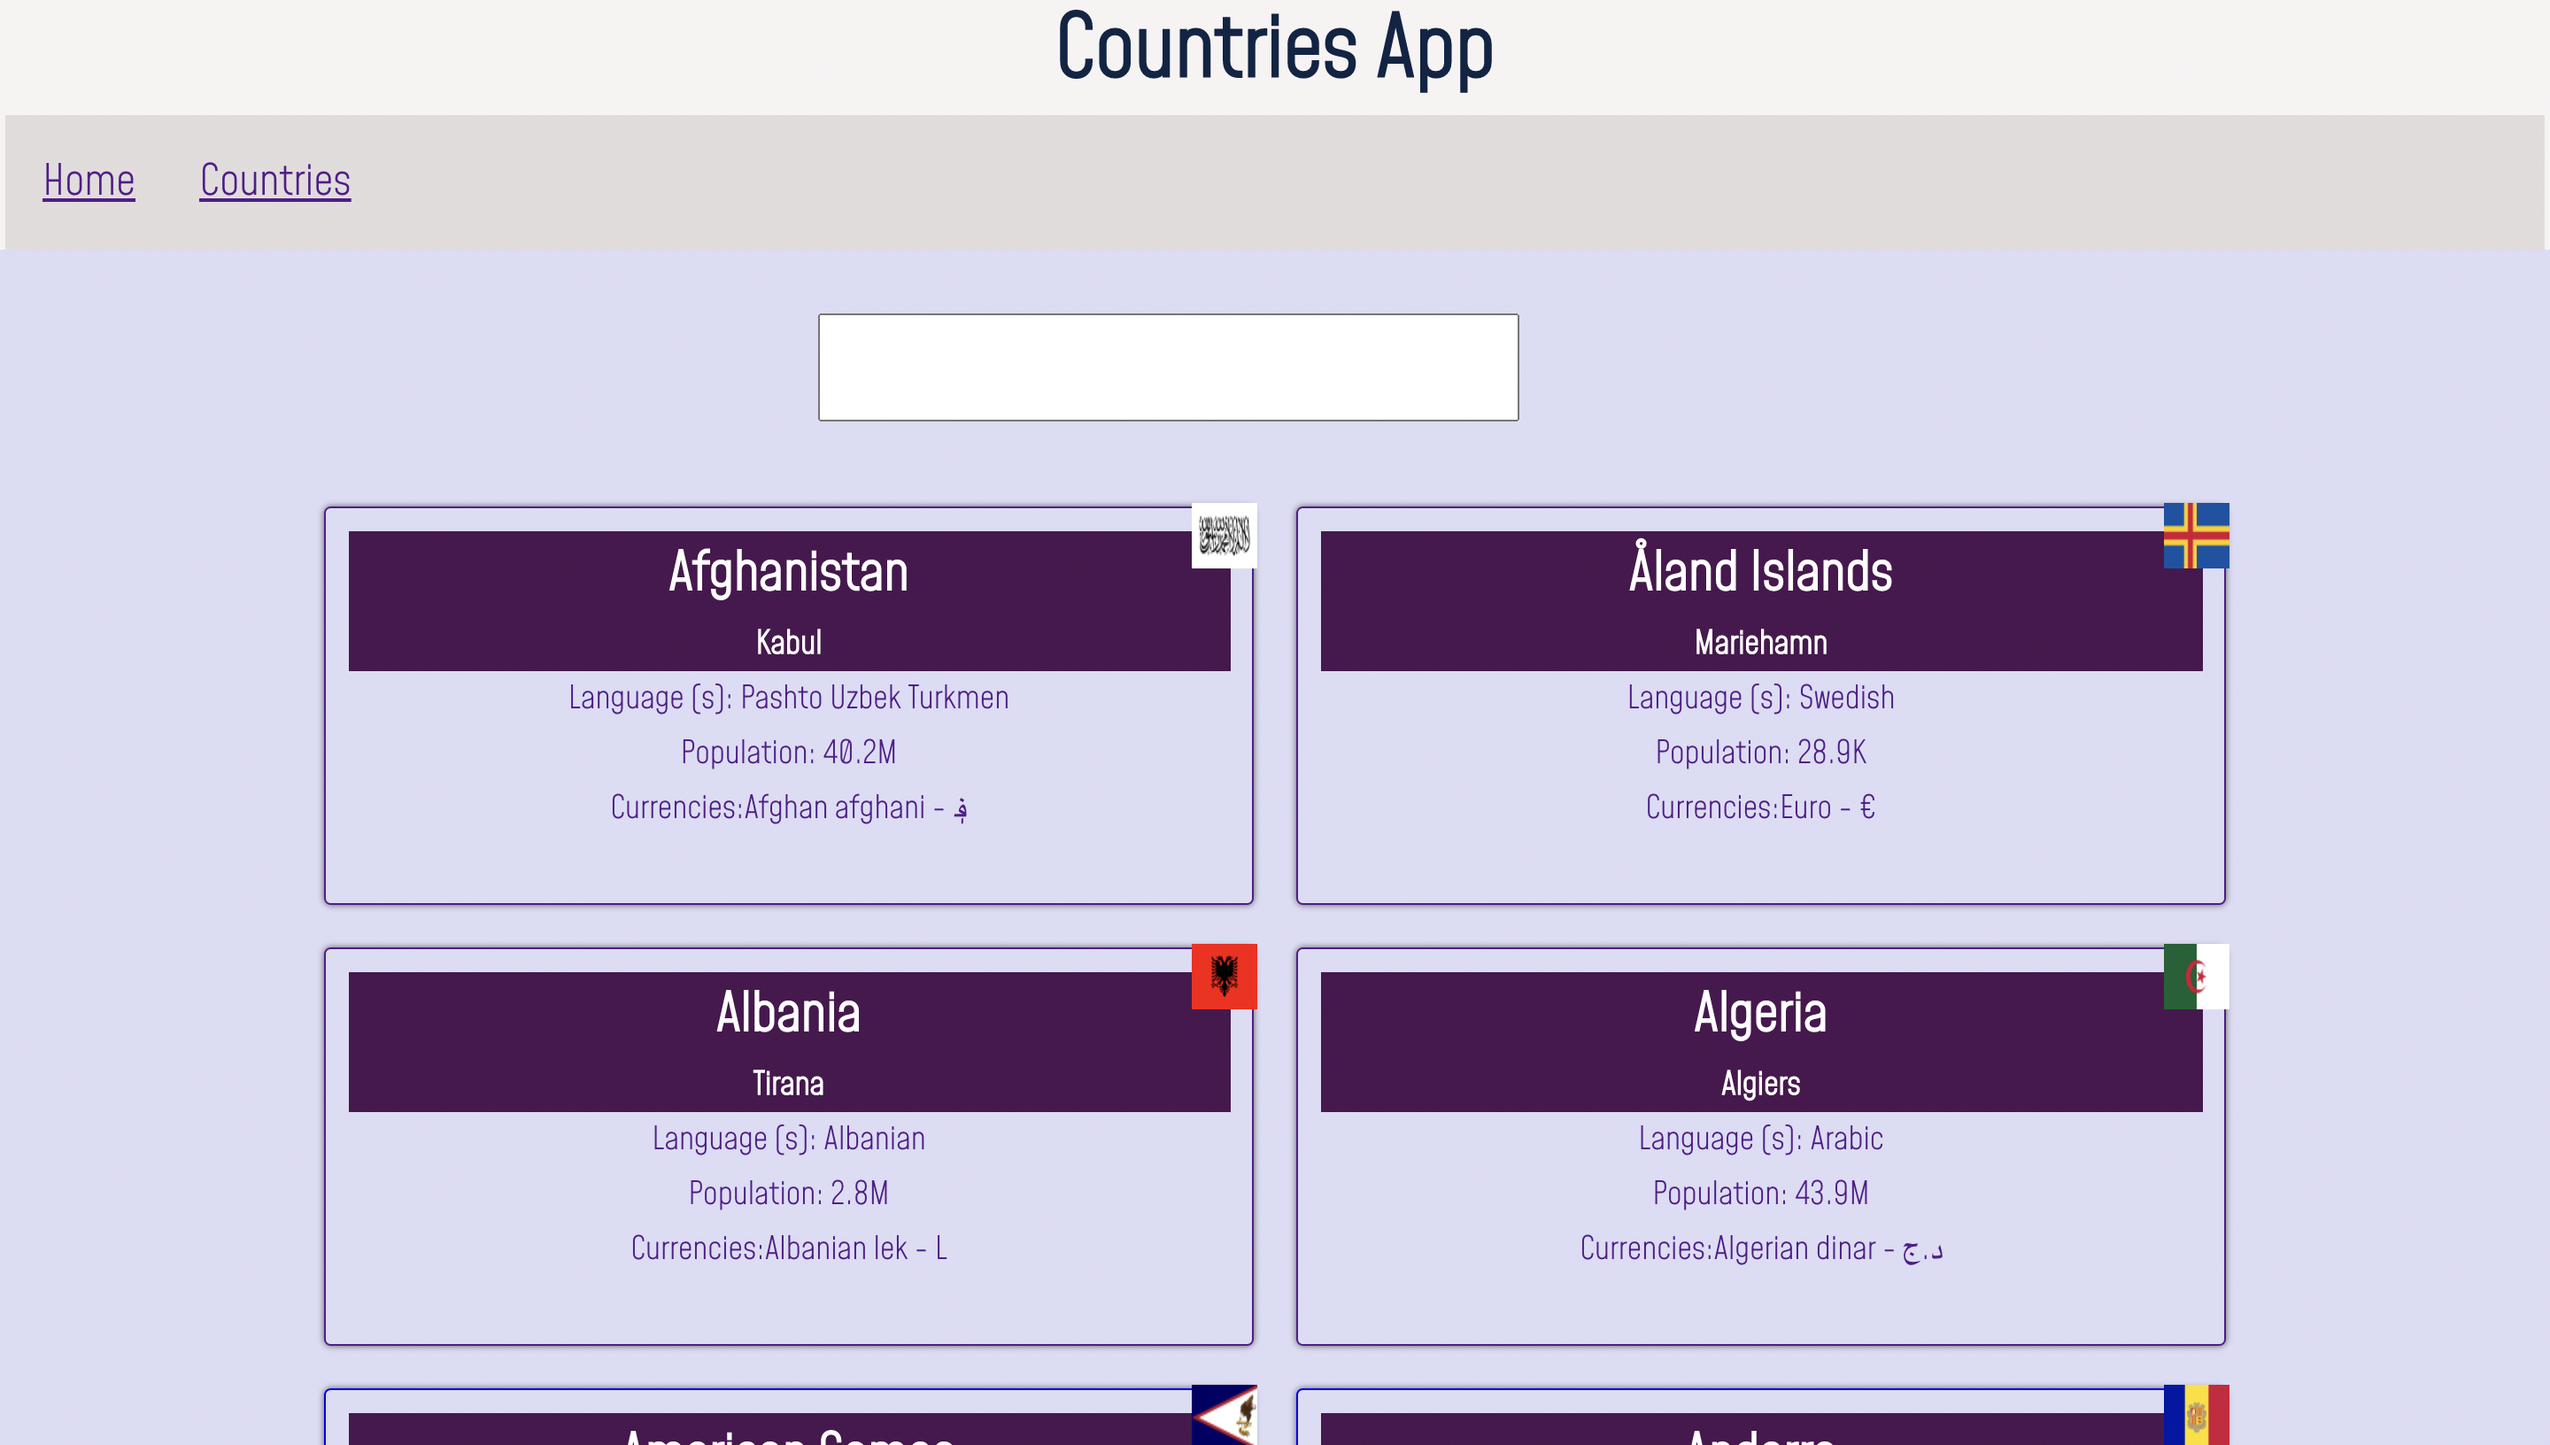
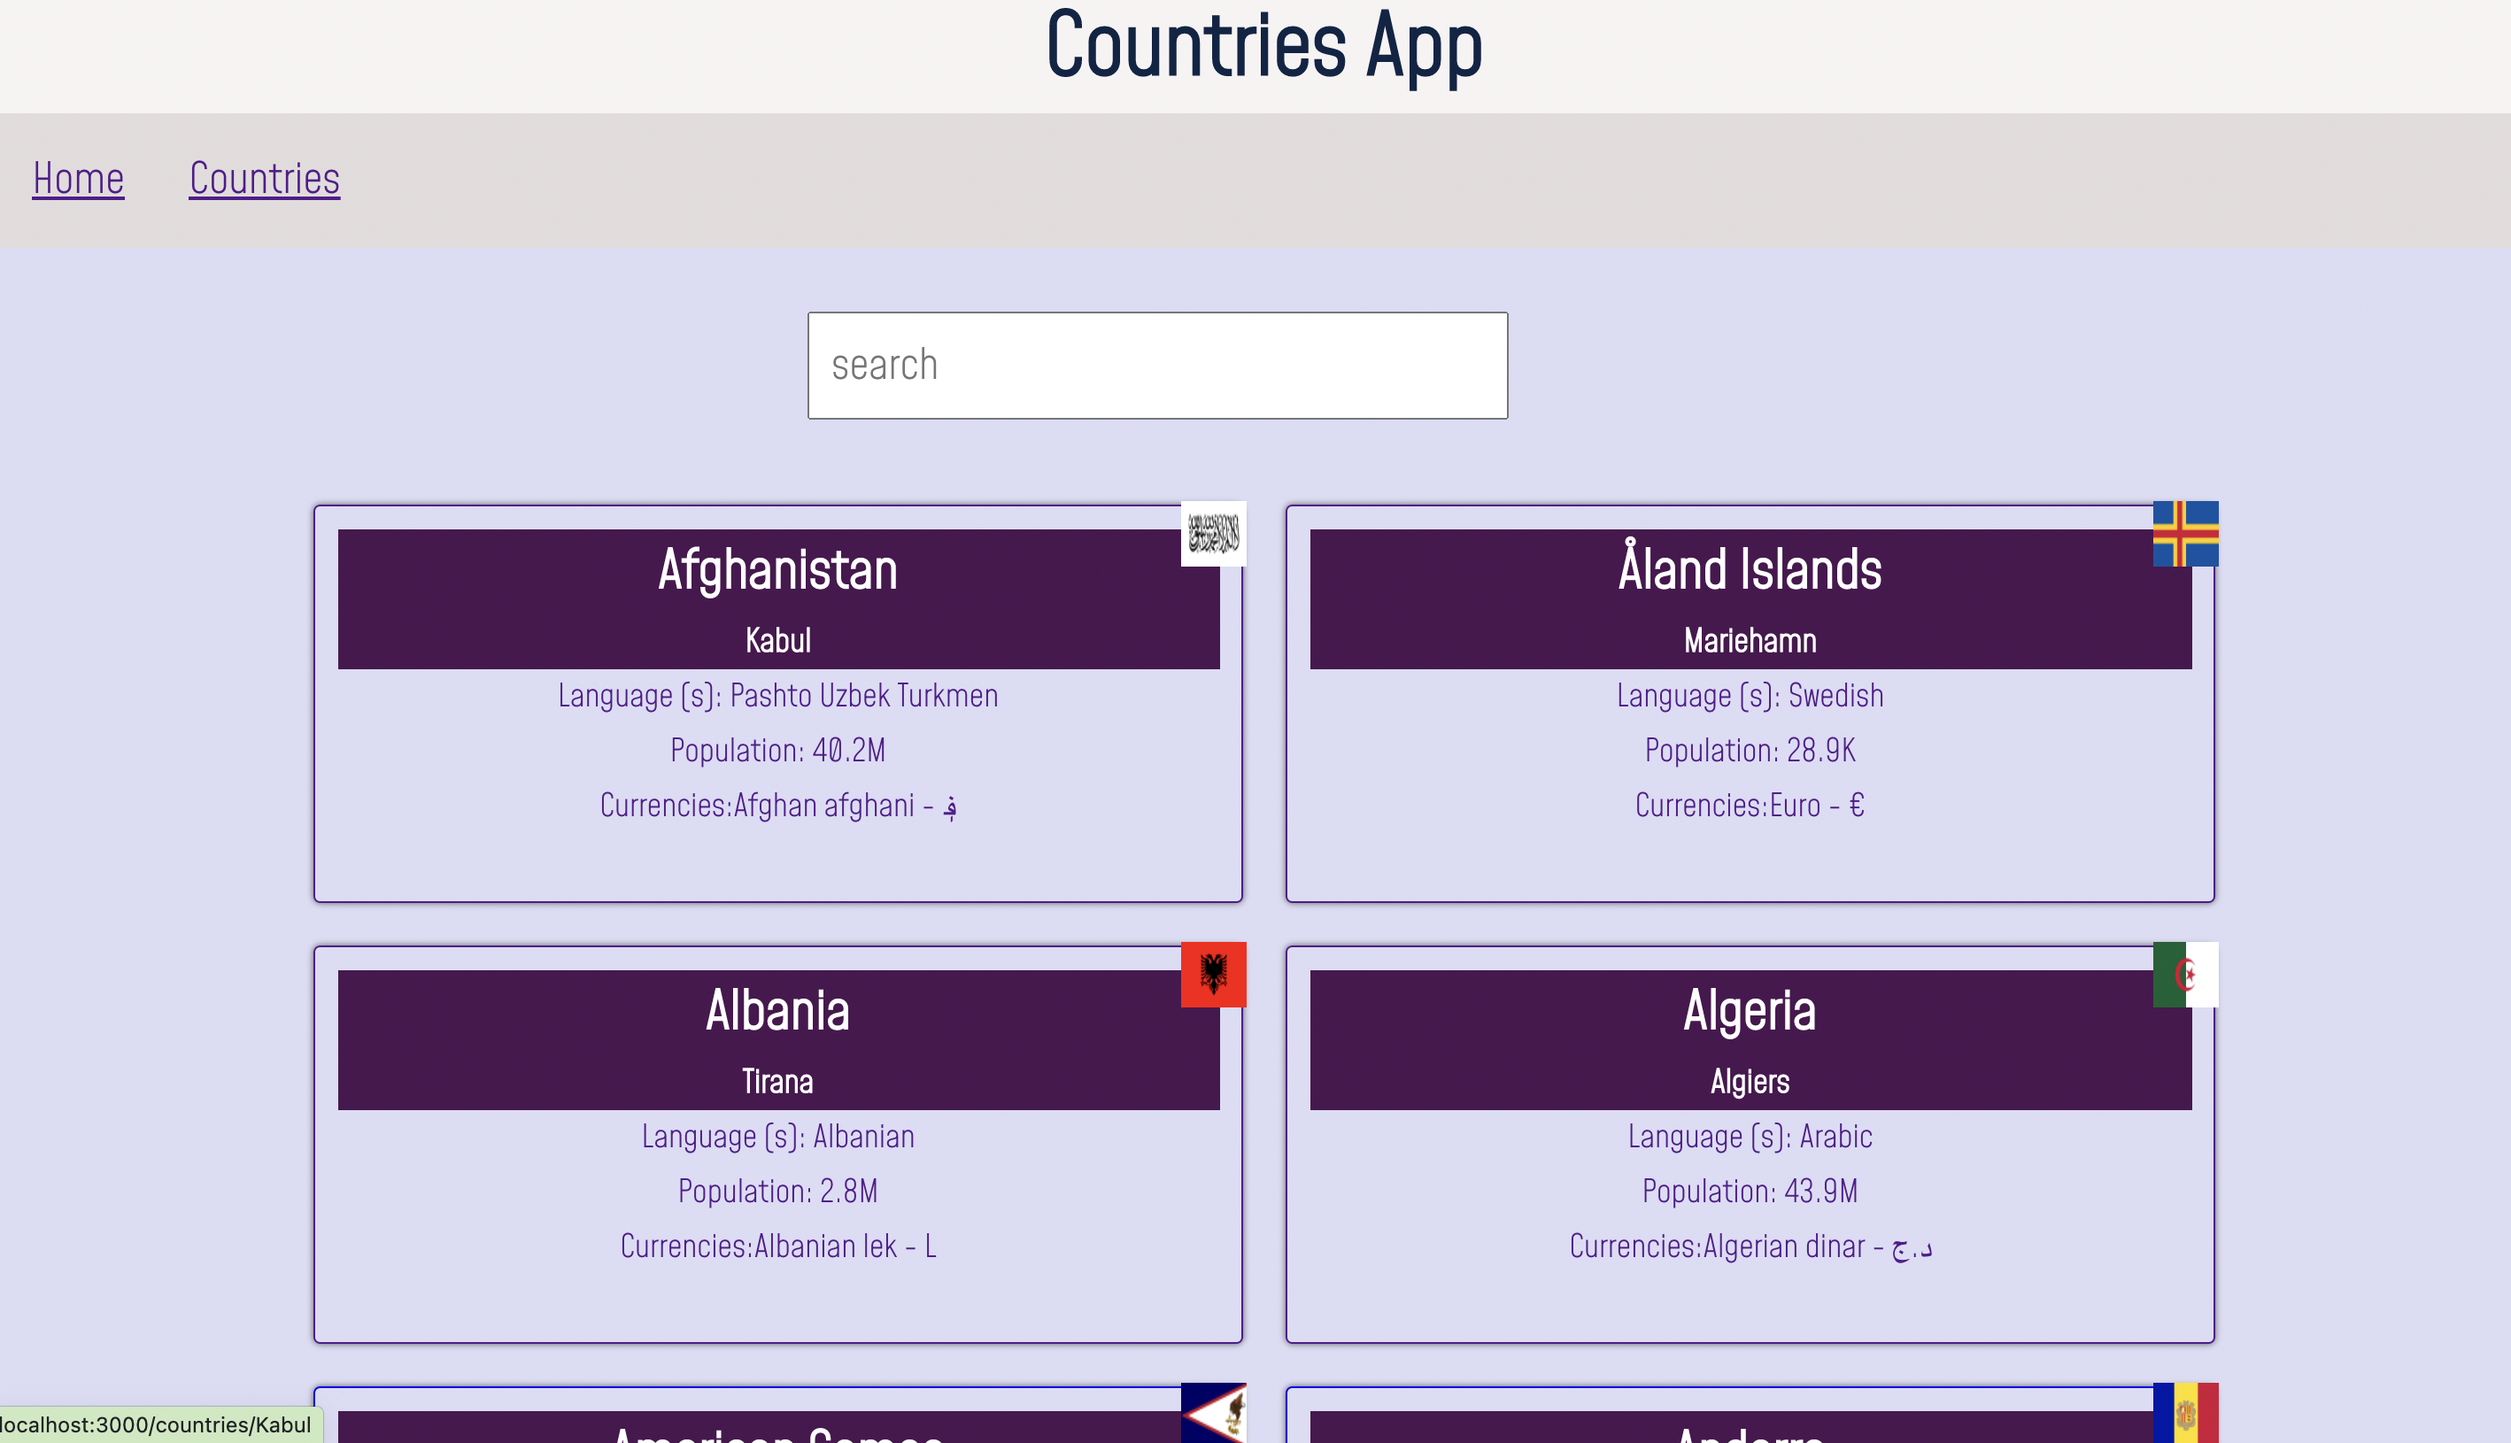
readme file changes

diff --git a/README.md b/README.md
@@ -6,7 +6,10 @@ of countries such as country name, capital, currency, population ,
         weather and country flag.
 - I have used axios to fetch data from
         two API's which are restcountries and openweather.
+- Using search box you can search using country name to filter the details of a particular country
+- By clicking on Country card will display weather,pupulation,calling code and languages of that country.
 
 ##
 
-![screenshot of country details](country.png)
+![screenshot of countries page](country.png)
+![screenshot of single country details](countrysingle.png)
